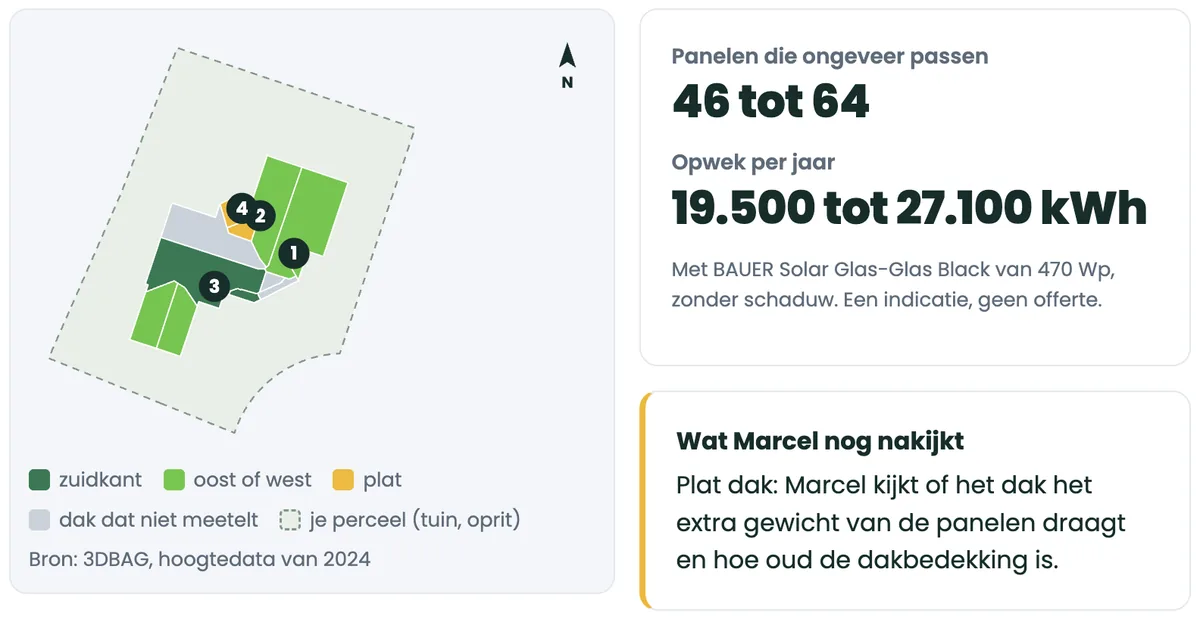
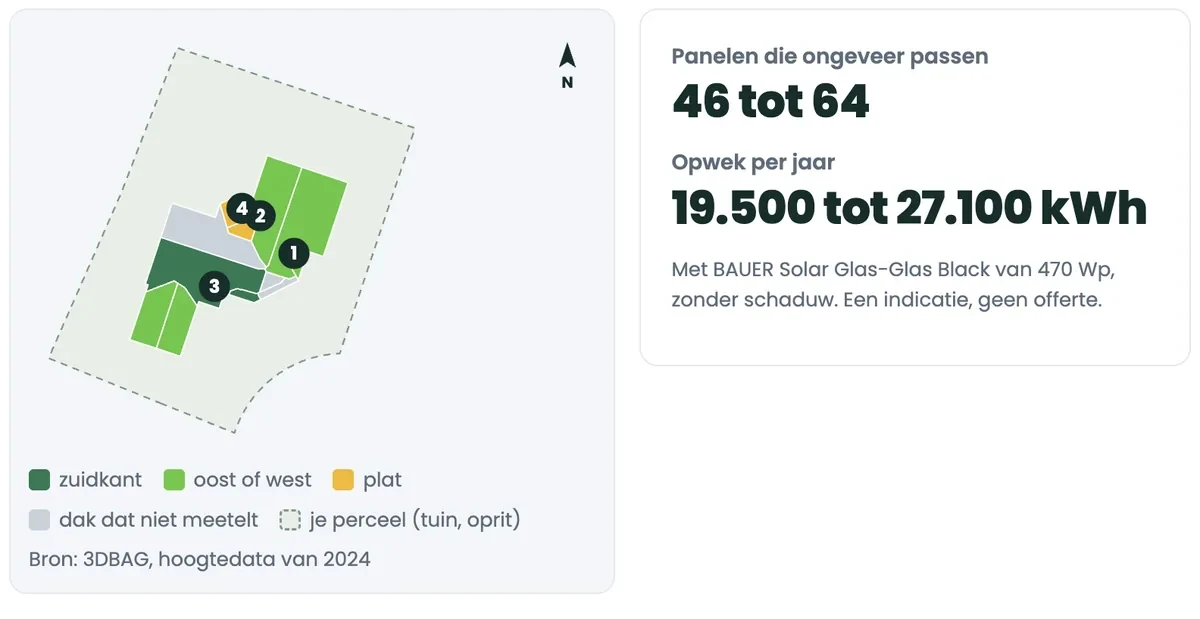
W-861: Ecomy-regel herschreven en Marcels naam uit het beeld
Koen 22 nov: de regel klopte niet. Het blok 'Wat Marcel nog nakijkt' noemde
Marcel zonder zijn eigen akkoord en is uit het beeld gehaald.

Claude-Session: https://claude.ai/code/session_01BVjGhKVivAUHDcGazEiiqb

Changed region(s): [[0.5242, 0.6446, 0.9558, 0.9822]]

diff --git a/app/[locale]/ps5-actie/page.tsx b/app/[locale]/ps5-actie/page.tsx
@@ -229,7 +229,7 @@ export default async function Ps5ActiePage({ params, searchParams }: Props) {
                 className="h-auto w-[42%] shrink-0 rounded-[8px] sm:w-[220px]"
               />
               <figcaption className="text-[14px] font-semibold leading-[1.35] text-primary">
-                Ecomy, installateur uit Wijchen: de klant ziet eerst zijn eigen dak.
+                Ecomy uit Wijchen: bezoekers zien op de site meteen hoeveel zonnepanelen er op hun eigen dak passen.
               </figcaption>
             </figure>
             <p className="m-0 mt-3 text-[14px] leading-[1.4] text-[#2A3A54]">
